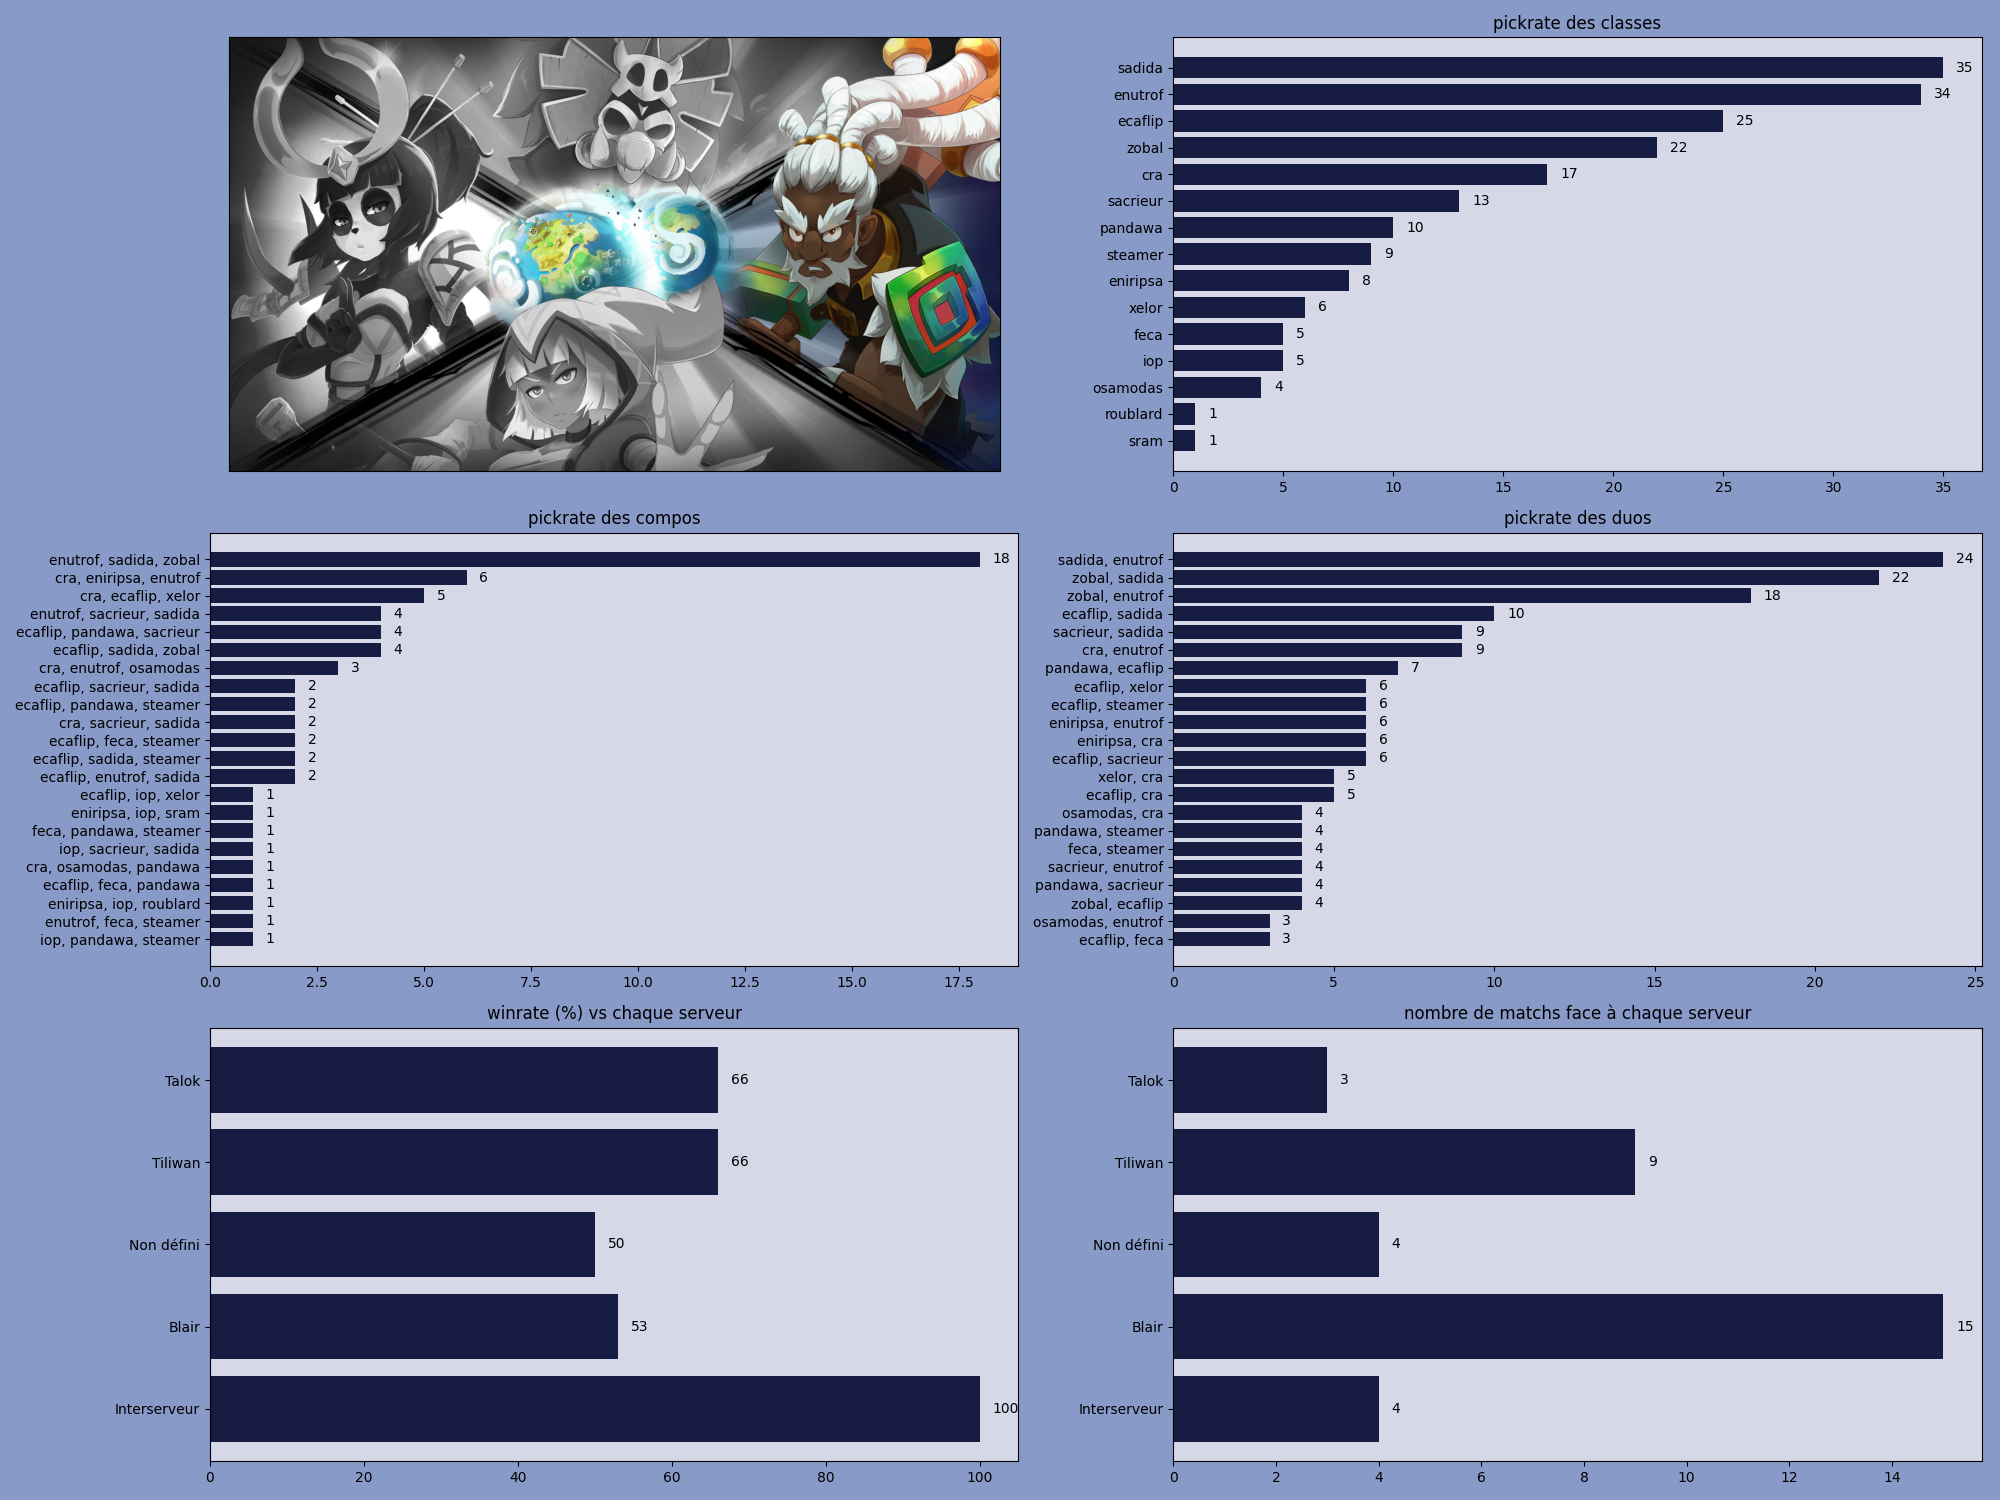
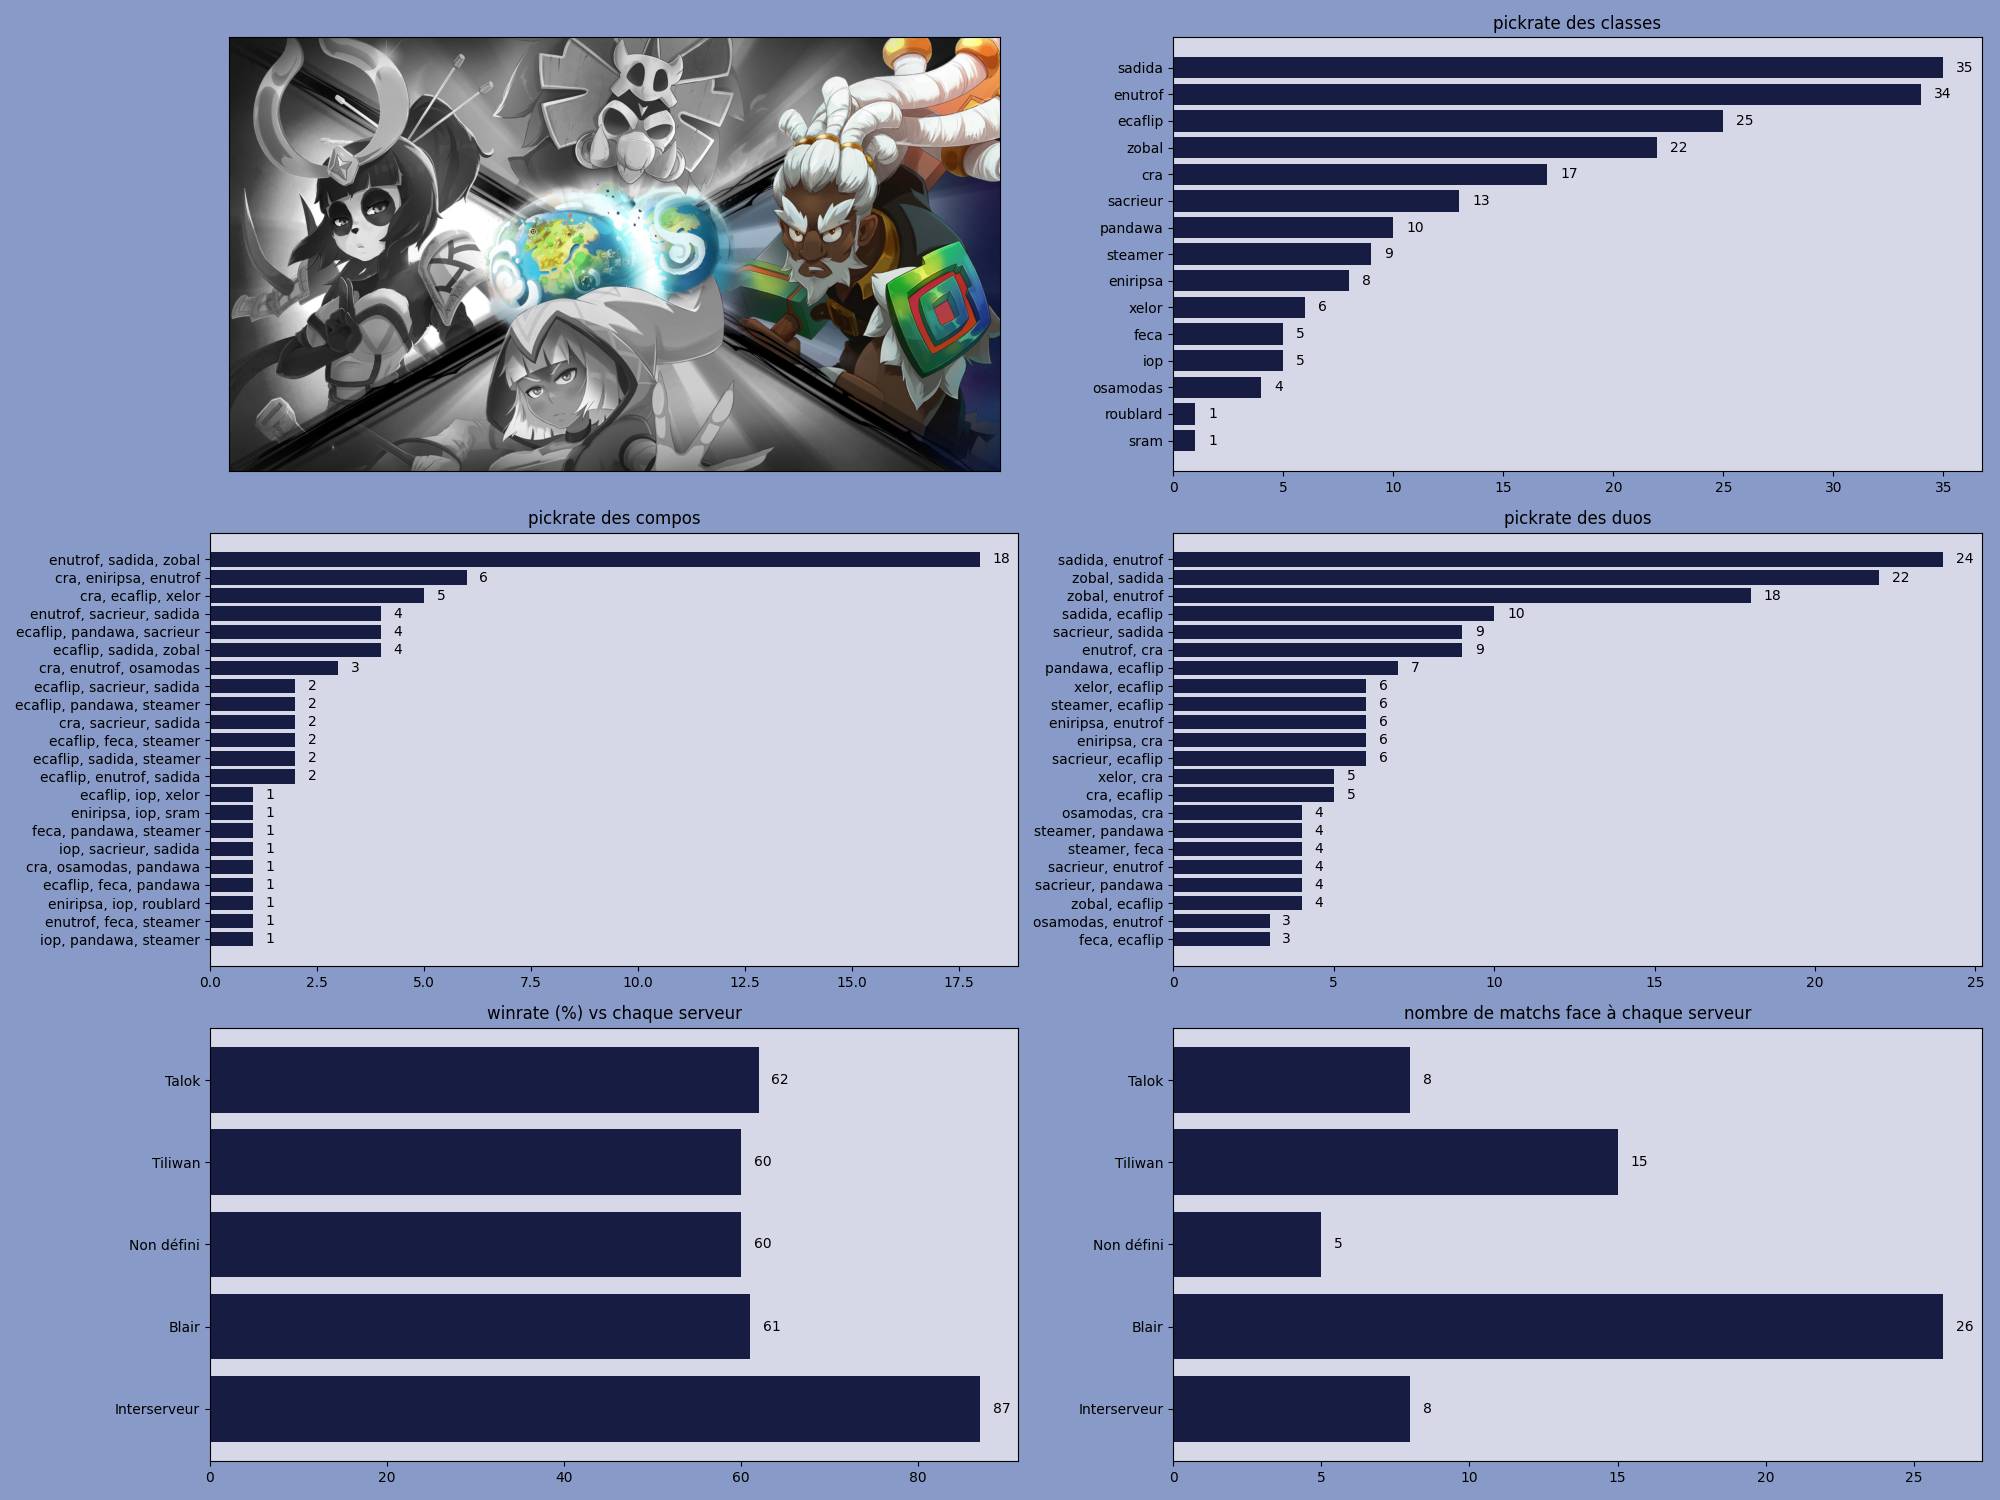
ajout infos ronde 2

diff --git a/page_jda4.py b/page_jda4.py
@@ -6,7 +6,8 @@ st.set_page_config(page_title="CalcOfus",page_icon=image_path+"logo_InvRoxx_tab.
 
 st.sidebar.image(image_path+"logo_jda4.png" )
 
-st.title("Stats après ronde 1 JDA#4".upper())
+ronde=2
+st.title(f"Stats après ronde {ronde} JDA#4".upper())
 
 df=[{'C1': 'cra', 'C3': 'ecaflip', 'C2': 'xelor'},
  {'C1': 'ecaflip', 'C3': 'feca', 'C2': 'steamer'},
@@ -206,7 +207,7 @@ SERVEURS=['Blair','Kelerog','Talok','Tiliwan','Touch tournament',]
 #                "JDA#4 - Nombre de pick des classes",
 #                "JDA#4 - Duos les plus joués",
 #                "JDA#4 - Heatmap des duos les plus joués"]
-st.image(image_path+"recapitulatif_winrates_ronde_1.jpg",use_container_width=True)
+st.image(image_path+f"recapitulatif_winrates_ronde_{ronde}.jpg",use_container_width=True)
 list_stats_images=[image_path+"Kelerog_recaputilatif.png",
                   image_path+"Blair_recaputilatif.png",
                   image_path+"Tiliwan_recaputilatif.png",
